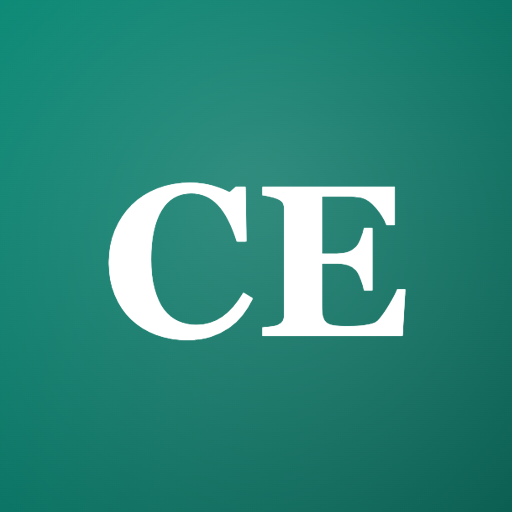
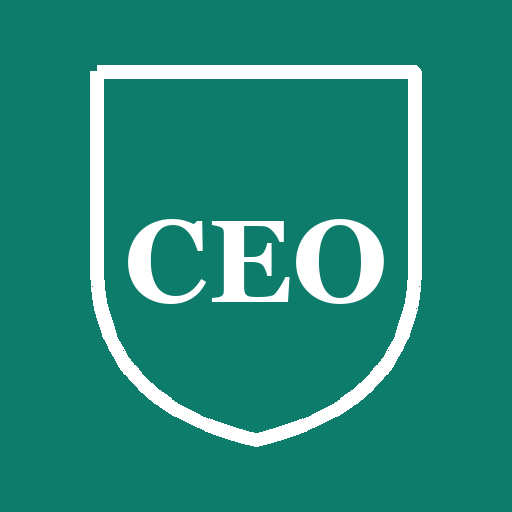
Rebrand to CEO (Carmen Elena Organiza) with a shield emblem
Shield = symbol of defense/protection, tying into the privacy promise.
New shield app icon (CEO) and matching header emblem; app titles updated.

Changed region(s): [[0.1562, 0.125, 0.8438, 0.875], [0.875, 0.875, 1.0, 1.0]]

diff --git a/index.html b/index.html
@@ -4,12 +4,12 @@
 <meta charset="UTF-8">
 <meta name="viewport" content="width=device-width, initial-scale=1.0, viewport-fit=cover">
 <meta name="theme-color" content="#0e7c6b">
-<title>Carmen Elena Organiza</title>
+<title>CEO — Carmen Elena Organiza</title>
 <link rel="manifest" href="manifest.json">
 <meta name="apple-mobile-web-app-capable" content="yes">
 <meta name="mobile-web-app-capable" content="yes">
 <meta name="apple-mobile-web-app-status-bar-style" content="default">
-<meta name="apple-mobile-web-app-title" content="CarElena">
+<meta name="apple-mobile-web-app-title" content="CEO">
 <link rel="apple-touch-icon" href="icon-180.png">
 <link rel="icon" type="image/png" href="icon-512.png">
 <style>
@@ -73,12 +73,13 @@
     background:linear-gradient(180deg,var(--sand-2),var(--sand));
   }
   .mark{
-    width:52px;height:52px;margin:0 auto 12px;border-radius:16px;
-    background:var(--teal);color:#fff;
-    display:grid;place-items:center;
-    font-family:Georgia,"Times New Roman",serif;font-size:26px;font-weight:700;
-    box-shadow:var(--shadow);
+    width:58px;height:66px;margin:0 auto 12px;
+    filter:drop-shadow(0 5px 12px rgba(14,124,107,.28));
   }
+  .mark svg{display:block;width:100%;height:100%}
+  .mark .field{fill:var(--teal)}
+  .mark .edge{fill:none;stroke:#fff;stroke-width:5;stroke-linejoin:round}
+  .mark .lbl{fill:#fff;font-family:Georgia,"Times New Roman",serif;font-weight:700;font-size:30px}
   h1{
     font-family:Georgia,"Times New Roman",serif;
     font-size:26px;font-weight:700;letter-spacing:.2px;line-height:1.15;
@@ -236,7 +237,13 @@
 <body>
 <div class="wrap">
   <header>
-    <div class="mark">CE</div>
+    <div class="mark">
+      <svg viewBox="0 0 100 116" aria-label="CEO">
+        <path class="field" d="M6 6 H94 V64 Q94 96 50 111 Q6 96 6 64 Z"/>
+        <path class="edge" d="M18 18 H82 V64 Q82 88 50 99 Q18 88 18 64 Z"/>
+        <text class="lbl" x="50" y="62" text-anchor="middle" dominant-baseline="middle">CEO</text>
+      </svg>
+    </div>
     <h1>Carmen Elena <span class="accent">Organiza</span></h1>
     <p class="tagline">Tus documentos, ordenados y seguros</p>
   </header>
